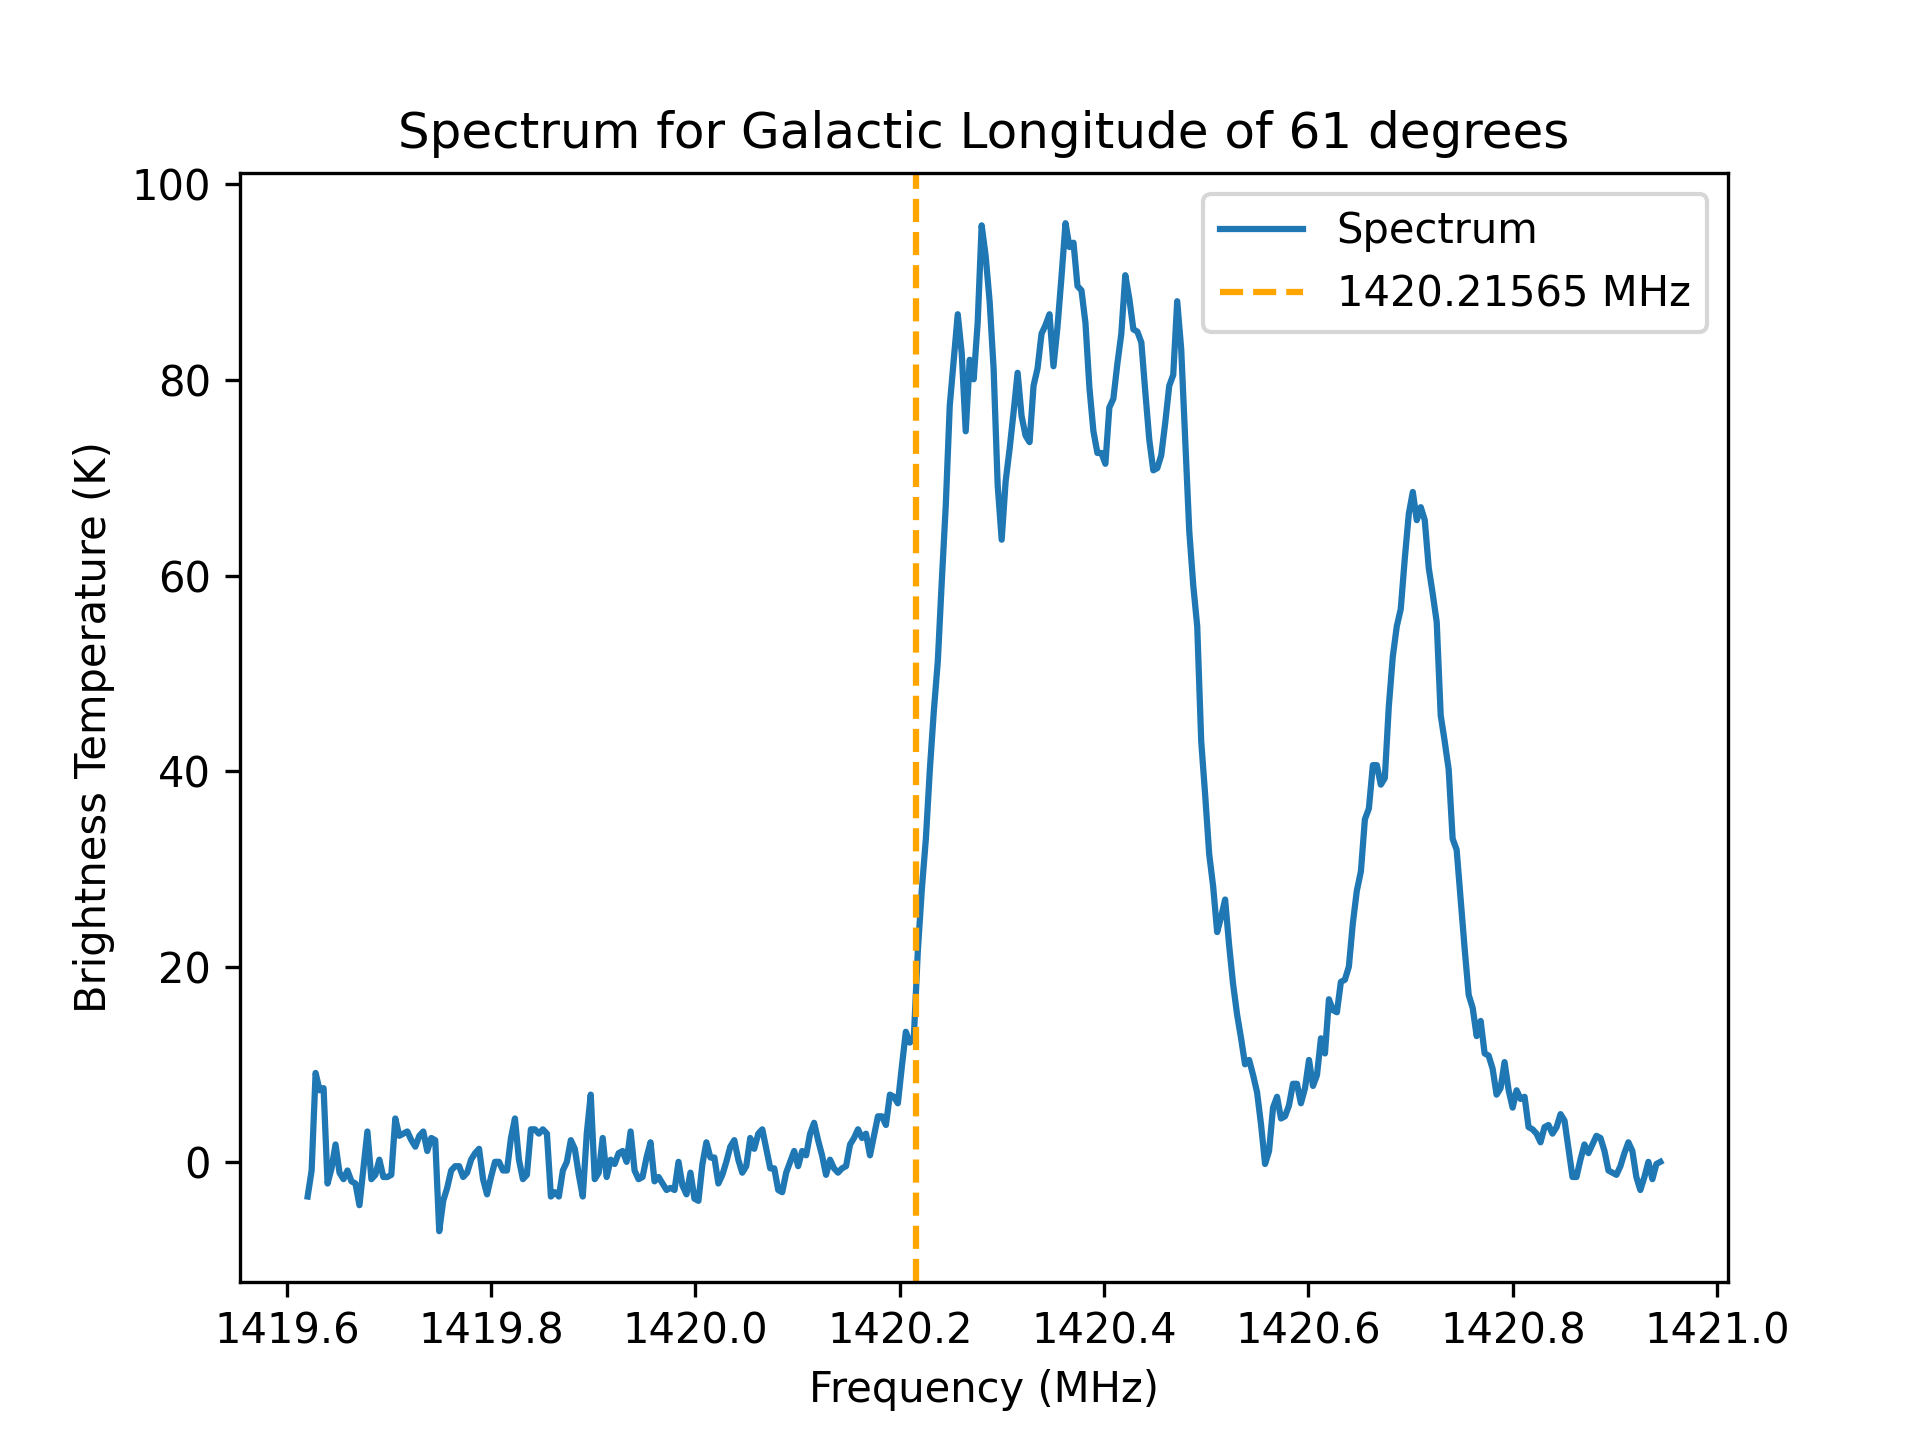
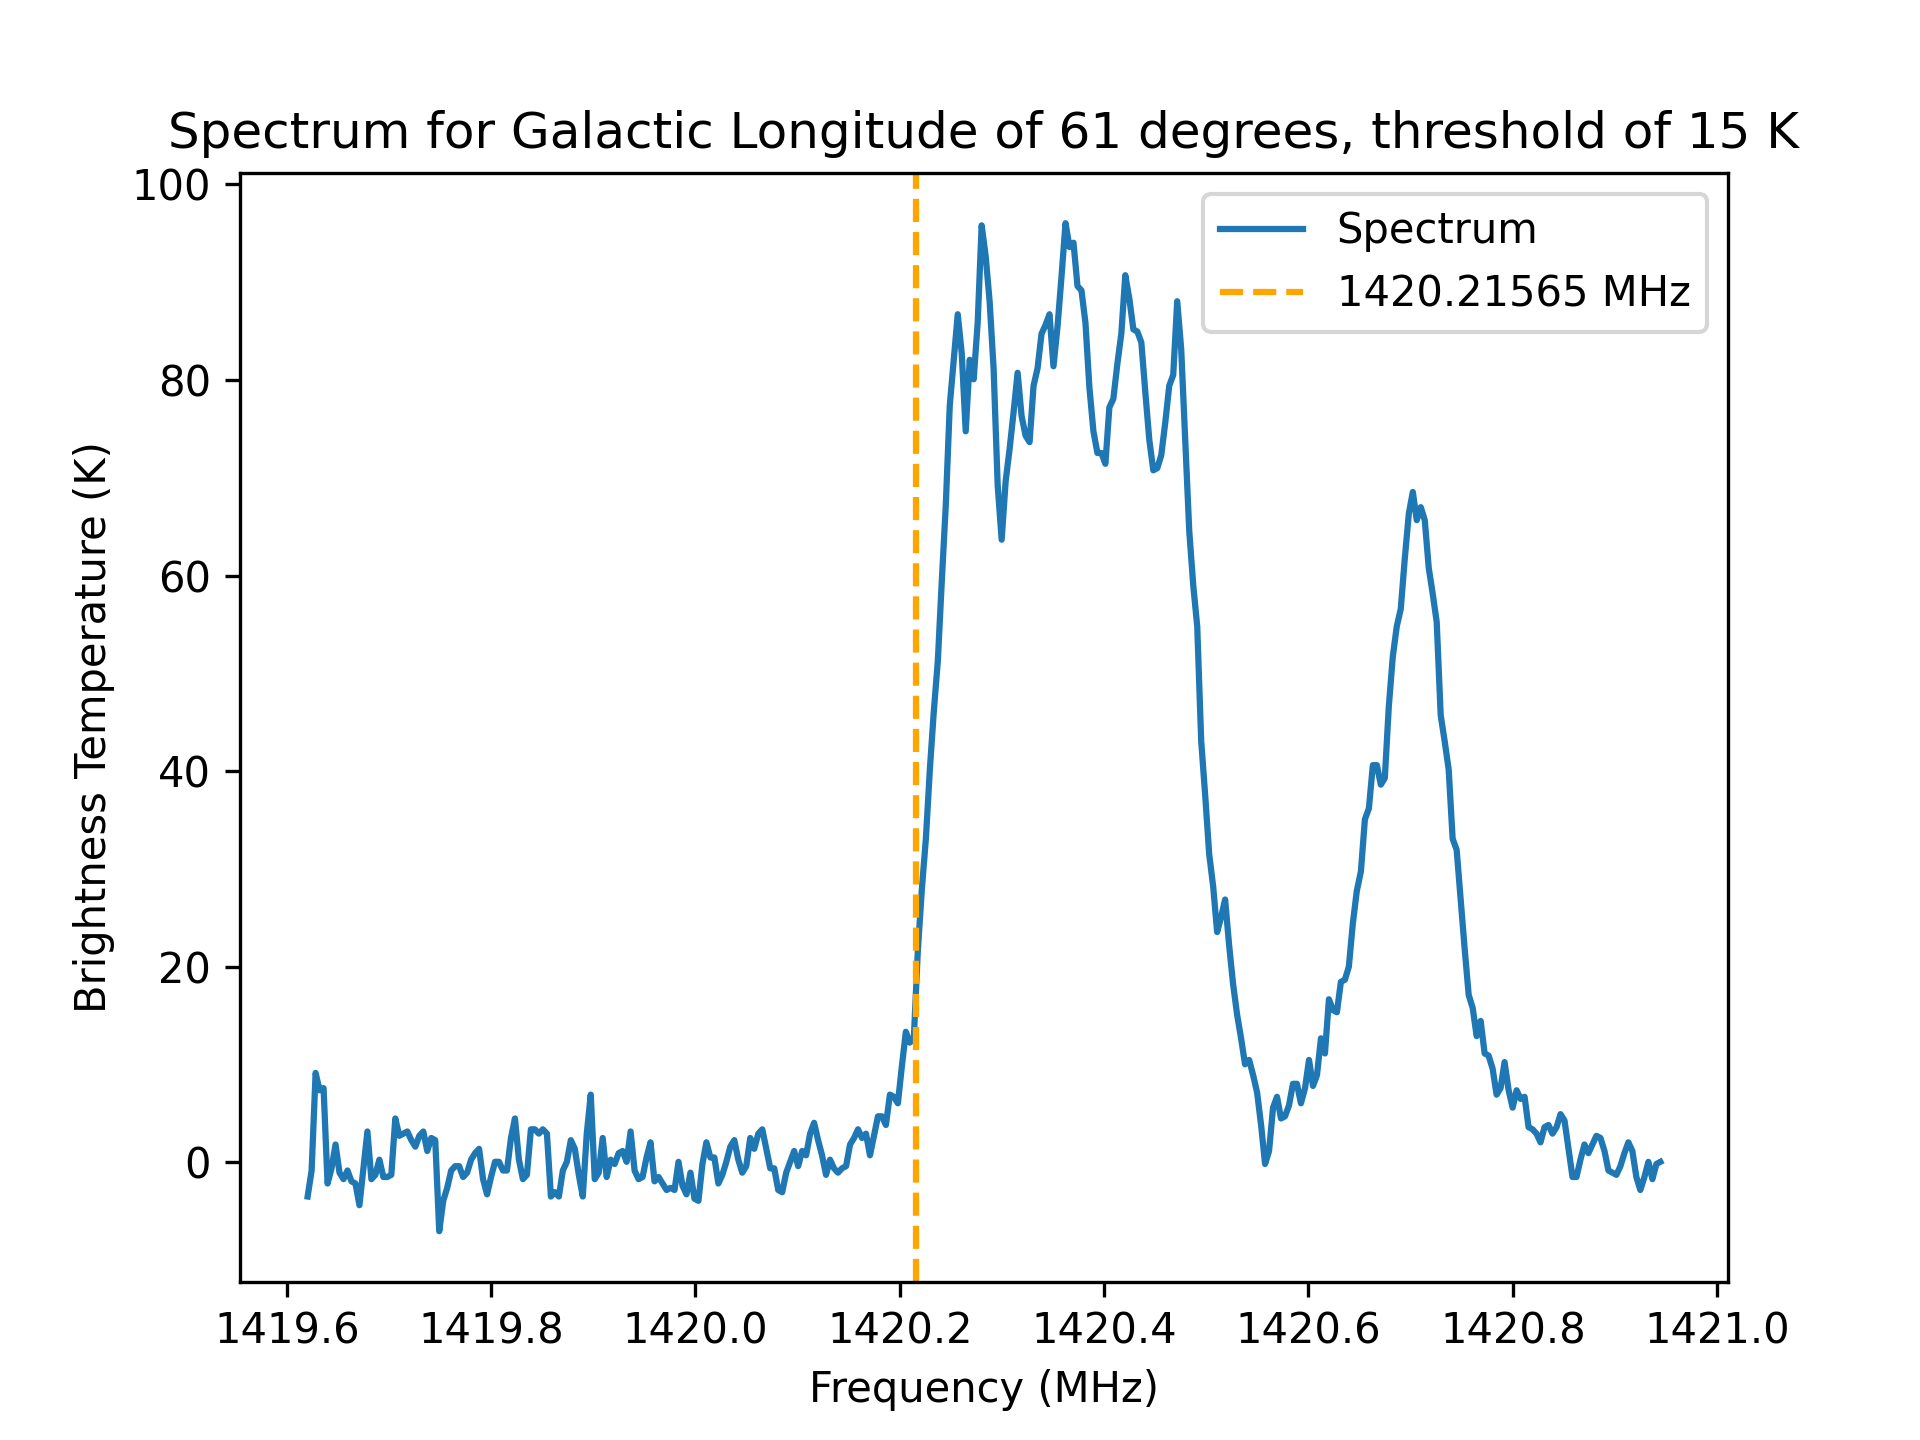
Complete lab 5

Changed region(s): [[0.0938, 0.0625, 0.9375, 0.125]]

diff --git a/BO_AC_5/part2.py b/BO_AC_5/part2.py
@@ -33,11 +33,11 @@ plt.figure()
 plt.plot(lon17[:,0], lon17[:,1], label="Spectrum") # Plot spectrtum
 
  # Plot freqcy at which signal exceeds 5 K
-plt.axvline(x = lon17_freq, linestyle="--", color="orange", label=str(lon17_freq) + " MHz")
+plt.axvline(x = lon17_freq, linestyle="--", color="orange", label=str(round(lon17_freq, 3)) + " MHz")
 
 plt.xlabel("Frequency (MHz)")
 plt.ylabel("Brightness Temperature (K)")
-plt.title("Spectrum for Galactic Longitude of 17 degrees")
+plt.title("Spectrum for Galactic Longitude of 17 degrees, threshold of 15 K")
 plt.legend()
 plt.gcf().savefig(fname="./images/lon17.png", dpi=300)
 plt.show()
@@ -45,7 +45,7 @@ plt.show()
 '''
 Iterating through all datasets and outputting all their neutral hydrogen emission line frequencies, plus plotting.
 This is commented out after all data is read in and can be uncommented easily.
-
+'''
 longitudes = [17, 21, 25, 29, 33, 37, 41, 45, 49, 53, 57, 61, 65] # all longitudes in data
 for lon in longitudes:
     cur_lon = load_lon(lon) # Loading longitude data from file
@@ -61,16 +61,15 @@ for lon in longitudes:
     plt.axvline(x = freq, linestyle = "--", color="orange", label=str(freq) + " MHz")
     plt.xlabel("Frequency (MHz)")
     plt.ylabel("Brightness Temperature (K)")
-    plt.title("Spectrum for Galactic Longitude of " + str(lon) + " degrees")
+    plt.title("Spectrum for Galactic Longitude of " + str(lon) + " degrees, threshold of 15 K")
     plt.legend()
     plt.gcf().savefig(fname="./images/lon" + str(lon) + ".png", dpi=300)
     plt.show()
 
     print(f"", lon, "\t", freq, "\t", error, "\t", freq_before, "\t", freq_after)
-'''
 
 '''
-Plotting the velocity curve as calculated from the observed frequencies and angles;
+Plotting the rotation curve as calculated from the observed frequencies and angles;
 uncertainties are also plotted.
 '''
 # Getting the data as calculated in our spreadsheet as well as uncertainties
@@ -82,11 +81,10 @@ sigma_v = uncertainties[:,0]
 sigma_r = uncertainties[:,1]
 # Plotting the data
 plt.figure()
-plt.plot(radii, velocities)
 plt.errorbar(x=radii, y=velocities, xerr=sigma_r, yerr=sigma_v, fmt="o")
 plt.xlabel("Distance from center (kpc)")
 plt.ylabel("Orbital velocity (km/s)")
-plt.title("Velocity curve of the Milky Way")
+plt.title("Rotation curve of the Milky Way with a threshold of 15 K")
 plt.savefig("./images/v_curve.png", dpi=300)
 plt.show()
 
@@ -106,11 +104,16 @@ def log_fit(x, a, b):
 def line_fit(x, a, b):
     return a * x + b
 
+# Function to fit to of the form 1/(ax-b)
+def rat_fit(x, a, b, c):
+    return c / (a * x - b)
+
 # Testing different fitted curves for data
 popt_pow, pcov_pow = curve_fit(power_fit, radii, velocities) # Power curve fit
 popt_exp, pcov_exp = curve_fit(exp_fit, radii, velocities) # Exponential curve fit
 popt_log, pcov_log = curve_fit(log_fit, radii, velocities) # Logarithmic curve fit
 popt_lin, pcov_lin = curve_fit(line_fit, radii, velocities) # Linear curve fit
+popt_rat, pcov_rat = curve_fit(rat_fit, radii, velocities) # Rational curve fit
 
 # Function to find the R^2 value of a fitted curve
 def R_squared(velocities, radii, function, *popt):
@@ -124,34 +127,93 @@ R_sq_pow = R_squared(velocities, radii, power_fit, *popt_pow) # Power curve fit 
 R_sq_exp = R_squared(velocities, radii, exp_fit, *popt_exp) # Exp curve fit R^2
 R_sq_log = R_squared(velocities, radii, log_fit, *popt_log) # Log curve fit R^2
 R_sq_lin = R_squared(velocities, radii, line_fit, *popt_lin) # Line curve fit R^2
+R_sq_rat = R_squared(velocities, radii, rat_fit, *popt_rat) # Rational curve fit R^2
 
-# Plotting best fit curve onto the observed curve
-plt.figure()
-plt.plot(radii, velocities)
-plt.errorbar(x = radii, y = velocities, xerr = sigma_r, yerr = sigma_v, fmt = "o", label="Observed")
-# Plotting best fit curve for a power function
-plt.plot(radii, power_fit(radii, *popt_pow), label="v = " + str(popt_pow[0])[0:5] + "r^" + str(popt_pow[1])[0:5] + ", R^2 = " + str(R_sq_pow)[0:5])
-# Plotting best fit curve for an exponential function
-plt.plot(radii, exp_fit(radii, *popt_exp), label="v = " + str(popt_exp[0])[0:5] + "e^" + str(popt_exp[1])[0:5] + "r, R^2 = " + str(R_sq_exp)[0:5])
-# Plotting best fit curve for a logarithmic function
-plt.plot(radii, log_fit(radii, *popt_log), label="v = " + str(popt_log[0])[0:5] + "log(" + str(popt_exp[1])[0:5] + "r), R^2 = " + str(R_sq_log)[0:5])
-# Plotting best fit curve for a linear function
-plt.plot(radii, line_fit(radii, *popt_lin), label="v = " + str(popt_exp[0])[0:5] + "r + " + str(popt_exp[1])[0:5] + ", R^2 = " + str(R_sq_lin)[0:5])
-plt.xlabel("r = Distance from center (kpc)")
-plt.ylabel("v = Orbital velocity (km/s)")
-plt.title("Velocity curve of the Milky Way with multiple best fit curves")
-plt.legend(loc="lower right")
-plt.savefig("./images/v_curve_fit_multiple.png", dpi=300)
-plt.show()
+# # Plotting best fit curve onto the observed curve
+# plt.figure()
+# plt.errorbar(x = radii, y = velocities, xerr = sigma_r, yerr = sigma_v, fmt = "o", label="Observed")
+# # Plotting best fit curve for a power function
+# plt.plot(radii, power_fit(radii, *popt_pow), label="v = " + str(popt_pow[0])[0:5] + "r^" + str(popt_pow[1])[0:5] + ", R^2 = " + str(R_sq_pow)[0:5])
+# # Plotting best fit curve for an exponential function
+# plt.plot(radii, exp_fit(radii, *popt_exp), label="v = " + str(popt_exp[0])[0:5] + "e^" + str(popt_exp[1])[0:5] + "r, R^2 = " + str(R_sq_exp)[0:5])
+# # Plotting best fit curve for a logarithmic function
+# plt.plot(radii, log_fit(radii, *popt_log), label="v = " + str(popt_log[0])[0:5] + "log(" + str(popt_exp[1])[0:5] + "r), R^2 = " + str(R_sq_log)[0:5])
+# # Plotting best fit curve for a linear function
+# plt.plot(radii, line_fit(radii, *popt_lin), label="v = " + str(popt_exp[0])[0:5] + "r + " + str(popt_exp[1])[0:5] + ", R^2 = " + str(R_sq_lin)[0:5])
+# # Plotting best fit curve for a rational function
+# plt.plot(radii, rat_fit(radii, *popt_rat), label="v = " + str(popt_rat[2])[0:5] + " / (" + str(popt_rat[0])[0:5] + "r - " + str(popt_rat[1])[0:5] + "), R^2 = " + str(R_sq_rat)[0:5])
+# plt.xlabel("r = Distance from center (kpc)")
+# plt.ylabel("v = Orbital velocity (km/s)")
+# plt.title("Rotation curve of the Milky Way with multiple best fit curves")
+# plt.legend(loc="lower right")
+# plt.savefig("./images/v_curve_fit_multiple.png", dpi=300)
+# plt.show()
 
 # Plotting singular best fit curve (log)
 plt.figure()
-plt.plot(radii, velocities)
 plt.errorbar(x = radii, y = velocities, xerr = sigma_r, yerr = sigma_v, fmt = "o", label="Observed")
-plt.plot(radii, log_fit(radii, *popt_log), label="v = " + str(popt_log[0])[0:5] + "log(" + str(popt_exp[1])[0:5] + "r), R^2 = " + str(R_sq_log)[0:5])
+plt.plot(radii, line_fit(radii, *popt_lin), label="v = " + str(popt_lin[0])[0:5] + "r + " + str(popt_lin[1])[0:5] + ", R^2 = " + str(R_sq_lin)[0:5])
 plt.xlabel("r = Distance from center (kpc)")
 plt.ylabel("v = Orbital velocity (km/s)")
-plt.title("Velocity curve of the Milky Way with logarithmic fit curve")
+plt.title("Rotation curve of the Milky Way with best fit line")
 plt.legend(loc="lower right")
 plt.savefig("./images/v_curve_fit.png", dpi=300)
+plt.show()
+
+# Interpolating for r = 4 kpc
+v_interpolated = line_fit(4, *popt_lin)
+v_interpolated = round(v_interpolated)
+plt.figure()
+plt.errorbar(x = radii, y = velocities, xerr = sigma_r, yerr = sigma_v, fmt = "o", label="Observed")
+plt.plot(radii, line_fit(radii, *popt_lin), label="Best fit line")
+plt.errorbar(x=4, y=v_interpolated, yerr=11, label="Interpolated point,\nr = 4 kpc, v = " + str(v_interpolated) + " km/s", color="r", fmt = "o")
+plt.xlabel("r = Distance from center (kpc)")
+plt.ylabel("v = Orbital velocity (km/s)")
+plt.title("Rotation curve with best fit line and interpolated data")
+plt.legend()
+plt.savefig("./images/v_curve_interpolated", dpi=300)
+plt.show()
+
+sigma_err = np.sqrt(np.diag(pcov_lin)) # Getting the error of a and b in the linear fit
+print(sigma_err)
+
+# Overlaying our best fir curve onto the predicted curve from part 1
+G = 4.3e-6 # Gravitational constant in kpc * M_sun^-1 * (km/s)^2
+
+Mr = 1.5e12 # Mass of the Milky Way
+r15 = np.linspace(1, 15, 500) # array of kiloparsec radii for plotting
+
+def v_orb(Mr, r):
+    return np.sqrt((G * Mr) / r)
+
+def mass_propto_r(r):
+    return (Mr / 15) * r
+
+def mass_propto_cube(r):
+    return (Mr / (15** 3)) * (r ** 3)
+
+def mass_central_sphere(r):
+    result = np.copy(r)
+    for i in range(0, np.size(r)):
+        if (r[i] < 2):
+            result.put(indices=i, values= (((0.05 * Mr) / (2 ** 3)) * (r[i] ** 3)))
+        else:
+            result.put(indices=i, values=(0.05 * Mr))
+    return result
+
+r = np.linspace(0.5, 8, 500)
+v_central_sphere = v_orb(mass_central_sphere(r), r) # Velocities ... mass is contained in a central sphere to 2 pc, 
+                                                    # after which it is negligible
+
+
+# Plotting the velocity curve for the theoretical galaxy where most mass is in the central 2 kpc
+# overlayed with the best fit curve we found
+plt.figure()
+plt.plot(r, v_central_sphere, label="Hypothetical curve") # mass increases with the central sphere
+plt.plot(r, line_fit(r, *popt_lin), label="Observed best fit")
+plt.xlabel("Distance from center (kpc)")
+plt.ylabel("Speed (km/s)")
+plt.title("Theoretical and observed Milky Way rotation curves")
+plt.legend()
+plt.savefig("./images/comparison_overlay.png", dpi=300)
 plt.show()

diff --git a/BO_AC_5/discussion.py b/BO_AC_5/discussion.py
@@ -1,0 +1,89 @@
+import numpy as np
+import matplotlib.pyplot as plt
+from scipy.optimize import curve_fit
+
+# Function to load the data based on the number galactic longitude
+def load_lon(num):
+    return np.loadtxt("./Lon-data/lon" + str(num) + ".dat")
+
+'''
+Function to find where a signal begins;
+the frequency at which a signal begins is determined to be the frequency where the signal first exceeds 5 K.
+Since it is unlikely for any given data to have such a point where the signal is exactly 5 K, this function
+returns the average of the last frequency where the signal is less than 5 K and the first frequency where the signal exceeds 5 K.
+This function returns these two values in that order (last freq < 5K, first freq > 5K)
+This method results in an error equal to +/- half the difference of these two values.
+'''
+threshold = 5
+def find_first_signal(data):
+    i = 1
+    while (data[i,1] < threshold):
+        i = i + 1
+    return data[i-1,0], data[i,0]
+
+lon17 = load_lon(17) # Loading the longitude 17 data
+lon17_freq_before, lon17_freq_after = find_first_signal(lon17) # Find beginning of first signal
+lon17_freq = (lon17_freq_before + lon17_freq_after) / 2 # Frequency at which signal begins
+lon17_error = (lon17_freq_after - lon17_freq_before) / 2 # Error bound as described above the def for find_first_signal
+lon17_freq = round(lon17_freq, 7) # Rounding frequency to 7 decimal places (precision of measurements)
+lon17_error = round(lon17_error, 7) # Rounding error similarly
+
+# Plotting spectrum for longitude 17 data
+plt.figure()
+plt.plot(lon17[:,0], lon17[:,1], label="Spectrum") # Plot spectrtum
+
+ # Plot freqcy at which signal exceeds 5 K
+plt.axvline(x = lon17_freq, linestyle="--", color="orange", label=str(round(lon17_freq, 3)) + " MHz")
+
+plt.xlabel("Frequency (MHz)")
+plt.ylabel("Brightness Temperature (K)")
+plt.title("Spectrum for Galactic Longitude of 17 degrees, threshold of 5 K")
+plt.legend()
+plt.gcf().savefig(fname="./images/lon17_5K.png", dpi=300)
+plt.show()
+
+'''
+Iterating through all datasets and outputting all their neutral hydrogen emission line frequencies, plus plotting.
+This is commented out after all data is read in and can be uncommented easily.
+'''
+longitudes = [17, 21, 25, 29, 33, 37, 41, 45, 49, 53, 57, 61, 65] # all longitudes in data
+for lon in longitudes:
+    cur_lon = load_lon(lon) # Loading longitude data from file
+    freq_before, freq_after = find_first_signal(cur_lon) # Finding the first signal frequencies as described above
+    freq = (freq_before + freq_after) / 2 # Frequency at which signal begins
+    error = (freq_after - freq_before) / 2 # Error bound
+    freq = round(freq, 7) # Rounding frequency
+    error = round(error, 7) # Rounding error
+
+    # Plotting:
+    plt.figure()
+    plt.plot(cur_lon[:,0], cur_lon[:,1], label="Spectrum")
+    plt.axvline(x = freq, linestyle = "--", color="orange", label=str(round(freq, 3)) + " MHz")
+    plt.xlabel("Frequency (MHz)")
+    plt.ylabel("Brightness Temperature (K)")
+    plt.title("Spectrum for Galactic Longitude of " + str(lon) + " degrees, threshold of 5 K")
+    plt.legend()
+    plt.gcf().savefig(fname="./images/lon_5K" + str(lon) + ".png", dpi=300)
+    plt.show()
+
+    print(f"", lon, "\t", freq, "\t", error, "\t", freq_before, "\t", freq_after)
+
+'''
+Plotting the rotation curve as calculated from the observed frequencies and angles;
+uncertainties are also plotted.
+'''
+# Getting the data as calculated in our spreadsheet as well as uncertainties
+v_curve_values = np.genfromtxt("./v_curve.fred")
+uncertainties = np.genfromtxt("./uncertainties.fred")
+velocities = v_curve_values[:,0]
+radii = v_curve_values[:,1]
+sigma_v = uncertainties[:,0]
+sigma_r = uncertainties[:,1]
+# Plotting the data
+plt.figure()
+plt.errorbar(x=radii, y=velocities, xerr=sigma_r, yerr=sigma_v, fmt="o")
+plt.xlabel("Distance from center (kpc)")
+plt.ylabel("Orbital velocity (km/s)")
+plt.title("Rotation curve of the Milky Way with a threshold of 5 K")
+plt.savefig("./images/v_curve_5K.png", dpi=300)
+plt.show()

diff --git a/BO_AC_5/part1.py b/BO_AC_5/part1.py
@@ -4,16 +4,16 @@ import matplotlib.pyplot as plt
 G = 4.3e-6 # Gravitational constant in kpc * M_sun^-1 * (km/s)^2
 
 Mr = 1.5e12 # Mass of the Milky Way
-r = np.linspace(3, 35, 500) # array of kiloparsec radii for plotting
+r15 = np.linspace(1, 15, 500) # array of kiloparsec radii for plotting
 
 def v_orb(Mr, r):
     return np.sqrt((G * Mr) / r)
 
 def mass_propto_r(r):
-    return (Mr / 30) * r
+    return (Mr / 15) * r
 
 def mass_propto_cube(r):
-    return (Mr / (30** 3)) * (r ** 3)
+    return (Mr / (15** 3)) * (r ** 3)
 
 def mass_central_sphere(r):
     result = np.copy(r)
@@ -24,9 +24,9 @@ def mass_central_sphere(r):
             result.put(indices=i, values=(0.05 * Mr))
     return result
 
-v_point = v_orb(Mr, r) # Array of velocities corresponding to radii for all mass at center as a point source
-v_lin = v_orb(mass_propto_r(r), r) # Velocities corresponding to radii for mass increasing linearly
-v_cube = v_orb(mass_propto_cube(r), r) # Velocities ... for mass increasing cubicly
+v_point = v_orb(Mr, r15) # Array of velocities corresponding to radii for all mass at center as a point source
+v_lin = v_orb(mass_propto_r(r15), r15) # Velocities corresponding to radii for mass increasing linearly
+v_cube = v_orb(mass_propto_cube(r15), r15) # Velocities ... for mass increasing cubicly
 
 r = np.linspace(0.5, 8, 500)
 v_central_sphere = v_orb(mass_central_sphere(r), r) # Velocities ... mass is contained in a central sphere to 2 pc, 
@@ -35,14 +35,15 @@ v_central_sphere = v_orb(mass_central_sphere(r), r) # Velocities ... mass is con
 
 # Plotting the orbital velocity curves
 plt.figure()
-plt.plot(r, v_point, label="Point source") # point source of mass at center
-plt.plot(r, v_lin, label="Linear") # mass increases linearly with radius
-plt.plot(r, v_cube, label="Cubic") # mass increases with the cube of the radius
+plt.plot(r15, v_point, label="Point source") # point source of mass at center
+plt.plot(r15, v_lin, label="Linear") # mass increases linearly with radius
+plt.plot(r15, v_cube, label="Cubic") # mass increases with the cube of the radius
 
 plt.xlabel("Distance from center (kpc)")
 plt.ylabel("Speed (km/s)")
-plt.title("Orbital velocity curves")
+plt.title("Orbital rotation curves")
 plt.legend()
+plt.savefig("./images/hypothetical_v_curves.png", dpi=300)
 plt.show()
 
 # Plotting the velocity curve for the theoretical galaxy where most mass is in the central 2 kpc
@@ -50,5 +51,6 @@ plt.figure()
 plt.plot(r, v_central_sphere, label="Central sphere") # mass increases with the central sphere
 plt.xlabel("Distance from center (kpc)")
 plt.ylabel("Speed (km/s)")
-plt.title("Orbital velocity curve for a theoretical galaxy")
+plt.title("Theoretical Milky Way rotation curve")
+plt.savefig("./images/hypothetical_milky_way_curve.png", dpi=300)
 plt.show()
